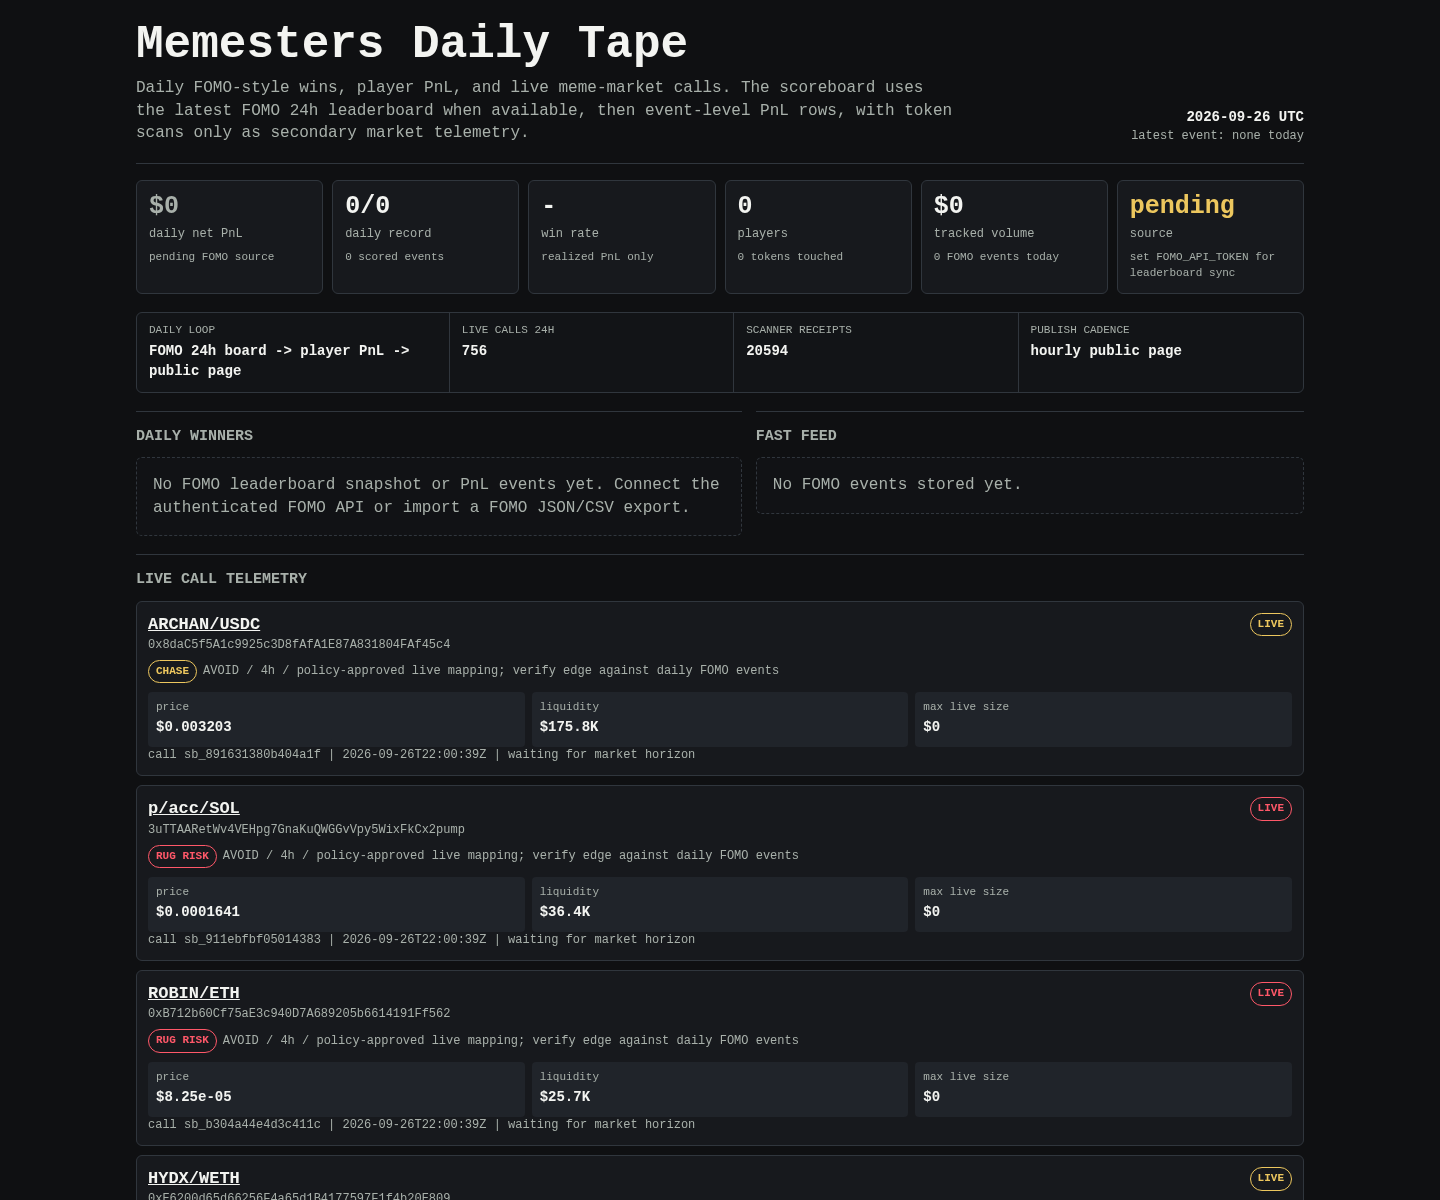
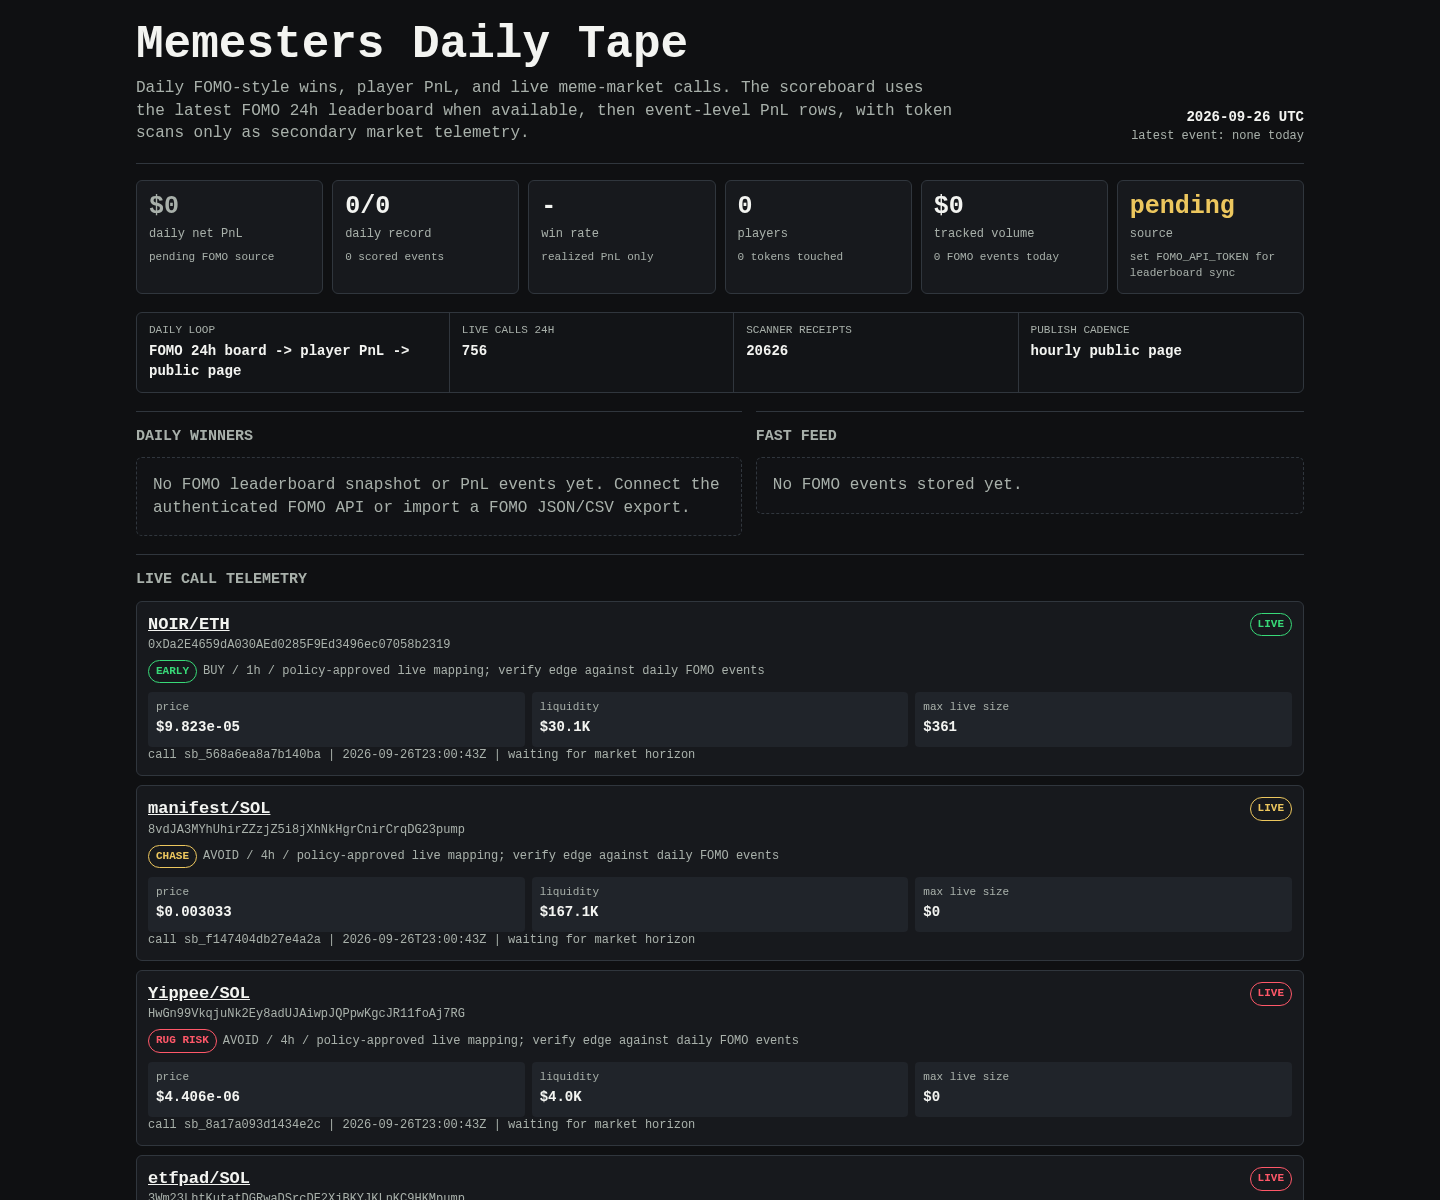
Update Memesters scoreboard

diff --git a/memesters/index.html b/memesters/index.html
@@ -150,7 +150,7 @@
     <div class="rail" aria-label="live operating loop">
       <div><span>daily loop</span><b>FOMO 24h board -> player PnL -> public page</b></div>
       <div><span>live calls 24h</span><b>756</b></div>
-      <div><span>scanner receipts</span><b>20594</b></div>
+      <div><span>scanner receipts</span><b>20626</b></div>
       <div><span>publish cadence</span><b>hourly public page</b></div>
     </div>
 
@@ -171,113 +171,8 @@
     <article class="receipt">
       <div class="receipt-head">
         <div>
-          <div class="pair"><a href="https://dexscreener.com/arc/0x9d88ae077f4730f37b7eb7811d5eeb77cfe682f69bcc3e589f43f0ecd9994fc5">ARCHAN/USDC</a></div>
-          <div class="addr">0x8daC5f5A1c9925c3D8fAfA1E87A831804FAf45c4</div>
-          <div class="addr policy-line">
-            <span class="badge chase">CHASE</span>
-            <span>AVOID / 4h / policy-approved live mapping; verify edge against daily FOMO events</span>
-          </div>
-        </div>
-        <span class="badge chase">LIVE</span>
-      </div>
-      <div class="receipt-grid">
-        <div class="kv"><span>price</span><b>$0.003203</b></div>
-        <div class="kv"><span>liquidity</span><b>$175.8K</b></div>
-        <div class="kv"><span>max live size</span><b>$0</b></div>
-      </div>
-      <div class="outcomes">call sb_891631380b404a1f | 2026-09-26T22:00:39Z | waiting for market horizon</div>
-    </article>
-    
-
-    <article class="receipt">
-      <div class="receipt-head">
-        <div>
-          <div class="pair"><a href="https://dexscreener.com/solana/dhzycqkffnlo8v7t5jbj4r4s4jyxwwovr2ubpi5iucsu">p/acc/SOL</a></div>
-          <div class="addr">3uTTAARetWv4VEHpg7GnaKuQWGGvVpy5WixFkCx2pump</div>
-          <div class="addr policy-line">
-            <span class="badge rug-risk">RUG RISK</span>
-            <span>AVOID / 4h / policy-approved live mapping; verify edge against daily FOMO events</span>
-          </div>
-        </div>
-        <span class="badge rug-risk">LIVE</span>
-      </div>
-      <div class="receipt-grid">
-        <div class="kv"><span>price</span><b>$0.0001641</b></div>
-        <div class="kv"><span>liquidity</span><b>$36.4K</b></div>
-        <div class="kv"><span>max live size</span><b>$0</b></div>
-      </div>
-      <div class="outcomes">call sb_911ebfbf05014383 | 2026-09-26T22:00:39Z | waiting for market horizon</div>
-    </article>
-    
-
-    <article class="receipt">
-      <div class="receipt-head">
-        <div>
-          <div class="pair"><a href="https://dexscreener.com/robinhood/0xe5139c0b90d349225b348631e98e887010173abebe05e4344c3cb7ddfd219759">ROBIN/ETH</a></div>
-          <div class="addr">0xB712b60Cf75aE3c940D7A689205b6614191Ff562</div>
-          <div class="addr policy-line">
-            <span class="badge rug-risk">RUG RISK</span>
-            <span>AVOID / 4h / policy-approved live mapping; verify edge against daily FOMO events</span>
-          </div>
-        </div>
-        <span class="badge rug-risk">LIVE</span>
-      </div>
-      <div class="receipt-grid">
-        <div class="kv"><span>price</span><b>$8.25e-05</b></div>
-        <div class="kv"><span>liquidity</span><b>$25.7K</b></div>
-        <div class="kv"><span>max live size</span><b>$0</b></div>
-      </div>
-      <div class="outcomes">call sb_b304a44e4d3c411c | 2026-09-26T22:00:39Z | waiting for market horizon</div>
-    </article>
-    
-
-    <article class="receipt">
-      <div class="receipt-head">
-        <div>
-          <div class="pair"><a href="https://dexscreener.com/robinhood/0x786467c30accad2600a21a9630bc438203094df0">HYDX/WETH</a></div>
-          <div class="addr">0xE6200d65d66256F4a65d1B4177597F1f4b20E809</div>
-          <div class="addr policy-line">
-            <span class="badge chase">CHASE</span>
-            <span>AVOID / 4h / policy-approved live mapping; verify edge against daily FOMO events</span>
-          </div>
-        </div>
-        <span class="badge chase">LIVE</span>
-      </div>
-      <div class="receipt-grid">
-        <div class="kv"><span>price</span><b>$0.002041</b></div>
-        <div class="kv"><span>liquidity</span><b>$126.6K</b></div>
-        <div class="kv"><span>max live size</span><b>$0</b></div>
-      </div>
-      <div class="outcomes">call sb_7401e37b8419408a | 2026-09-26T22:00:38Z | waiting for market horizon</div>
-    </article>
-    
-
-    <article class="receipt">
-      <div class="receipt-head">
-        <div>
-          <div class="pair"><a href="https://dexscreener.com/robinhood/0x82cdbae37653d091fc5015652809eeebb3ba136dbce97a41f7edbb5e280290ac">PAIDBOT/WETH</a></div>
-          <div class="addr">0xf2E33912058D267A4b5efD9A27a4E90521d6389A</div>
-          <div class="addr policy-line">
-            <span class="badge chase">CHASE</span>
-            <span>AVOID / 4h / policy-approved live mapping; verify edge against daily FOMO events</span>
-          </div>
-        </div>
-        <span class="badge chase">LIVE</span>
-      </div>
-      <div class="receipt-grid">
-        <div class="kv"><span>price</span><b>$0.0001505</b></div>
-        <div class="kv"><span>liquidity</span><b>$100.2K</b></div>
-        <div class="kv"><span>max live size</span><b>$0</b></div>
-      </div>
-      <div class="outcomes">call sb_1b61886d310c4d45 | 2026-09-26T22:00:38Z | waiting for market horizon</div>
-    </article>
-    
-
-    <article class="receipt">
-      <div class="receipt-head">
-        <div>
-          <div class="pair"><a href="https://dexscreener.com/solana/4x3wyycgk6gzvr8nmsfxezcgniaehae7ypitaloufray">DRU/SOL</a></div>
-          <div class="addr">14kH2osUyEJnqBZ7yFK4pLKJGuPZU4pr1enhi2ZLEmRw</div>
+          <div class="pair"><a href="https://dexscreener.com/robinhood/0x0e01015185736c984db19c7073adbfb290a9e2bd1420ea774cffe2d2bf27add9">NOIR/ETH</a></div>
+          <div class="addr">0xDa2E4659dA030AEd0285F9Ed3496ec07058b2319</div>
           <div class="addr policy-line">
             <span class="badge early">EARLY</span>
             <span>BUY / 1h / policy-approved live mapping; verify edge against daily FOMO events</span>
@@ -286,19 +181,40 @@
         <span class="badge early">LIVE</span>
       </div>
       <div class="receipt-grid">
-        <div class="kv"><span>price</span><b>$3.422e-05</b></div>
-        <div class="kv"><span>liquidity</span><b>$15.2K</b></div>
-        <div class="kv"><span>max live size</span><b>$183</b></div>
+        <div class="kv"><span>price</span><b>$9.823e-05</b></div>
+        <div class="kv"><span>liquidity</span><b>$30.1K</b></div>
+        <div class="kv"><span>max live size</span><b>$361</b></div>
       </div>
-      <div class="outcomes">call sb_e8871b8e56d14a7f | 2026-09-26T22:00:38Z | waiting for market horizon</div>
+      <div class="outcomes">call sb_568a6ea8a7b140ba | 2026-09-26T23:00:43Z | waiting for market horizon</div>
     </article>
     
 
     <article class="receipt">
       <div class="receipt-head">
         <div>
-          <div class="pair"><a href="https://dexscreener.com/solana/7zapjfmczu5nmqjtyhgyq7eutr19bpywm77hesza9cxy">mine/acc/SOL</a></div>
-          <div class="addr">J3YKxkHpsj5MoxmBzHAHmbVK5U668QsFEamD5kdSpump</div>
+          <div class="pair"><a href="https://dexscreener.com/solana/egfapuqszg4zv1efmnfprmcx6dbmypjvxq3wq3mqu79m">manifest/SOL</a></div>
+          <div class="addr">8vdJA3MYhUhirZZzjZ5i8jXhNkHgrCnirCrqDG23pump</div>
+          <div class="addr policy-line">
+            <span class="badge chase">CHASE</span>
+            <span>AVOID / 4h / policy-approved live mapping; verify edge against daily FOMO events</span>
+          </div>
+        </div>
+        <span class="badge chase">LIVE</span>
+      </div>
+      <div class="receipt-grid">
+        <div class="kv"><span>price</span><b>$0.003033</b></div>
+        <div class="kv"><span>liquidity</span><b>$167.1K</b></div>
+        <div class="kv"><span>max live size</span><b>$0</b></div>
+      </div>
+      <div class="outcomes">call sb_f147404db27e4a2a | 2026-09-26T23:00:43Z | waiting for market horizon</div>
+    </article>
+    
+
+    <article class="receipt">
+      <div class="receipt-head">
+        <div>
+          <div class="pair"><a href="https://dexscreener.com/solana/a1n6ka71vjujdt3xafh3v4uvxc9jlusckvvhgtwamzsv">Yippee/SOL</a></div>
+          <div class="addr">HwGn99VkqjuNk2Ey8adUJAiwpJQPpwKgcJR11foAj7RG</div>
           <div class="addr policy-line">
             <span class="badge rug-risk">RUG RISK</span>
             <span>AVOID / 4h / policy-approved live mapping; verify edge against daily FOMO events</span>
@@ -307,19 +223,19 @@
         <span class="badge rug-risk">LIVE</span>
       </div>
       <div class="receipt-grid">
-        <div class="kv"><span>price</span><b>$4.319e-06</b></div>
-        <div class="kv"><span>liquidity</span><b>$4.7K</b></div>
+        <div class="kv"><span>price</span><b>$4.406e-06</b></div>
+        <div class="kv"><span>liquidity</span><b>$4.0K</b></div>
         <div class="kv"><span>max live size</span><b>$0</b></div>
       </div>
-      <div class="outcomes">call sb_b578bcfe315d4353 | 2026-09-26T22:00:38Z | waiting for market horizon</div>
+      <div class="outcomes">call sb_8a17a093d1434e2c | 2026-09-26T23:00:43Z | waiting for market horizon</div>
     </article>
     
 
     <article class="receipt">
       <div class="receipt-head">
         <div>
-          <div class="pair"><a href="https://dexscreener.com/robinhood/0x77e8696f85f011dddaba04c560196af5dd86a777e8795950ffd5dcbf2cc9ad02">AZAR/USDG</a></div>
-          <div class="addr">0x55436eea2067B95E763D6aAA186b709822374Df8</div>
+          <div class="pair"><a href="https://dexscreener.com/solana/carbxylywxr7j7xgpvq37y87m6t7dxjfqzigulhdhuq4">etfpad/SOL</a></div>
+          <div class="addr">3Wm23LhtKutatDGRwaDSrcDE2XjBKYJKLnKC9HKMpump</div>
           <div class="addr policy-line">
             <span class="badge rug-risk">RUG RISK</span>
             <span>AVOID / 4h / policy-approved live mapping; verify edge against daily FOMO events</span>
@@ -328,19 +244,61 @@
         <span class="badge rug-risk">LIVE</span>
       </div>
       <div class="receipt-grid">
-        <div class="kv"><span>price</span><b>$1.412e-05</b></div>
-        <div class="kv"><span>liquidity</span><b>$9.7K</b></div>
+        <div class="kv"><span>price</span><b>$2.868e-06</b></div>
+        <div class="kv"><span>liquidity</span><b>$2.8K</b></div>
         <div class="kv"><span>max live size</span><b>$0</b></div>
       </div>
-      <div class="outcomes">call sb_d6d6dbb85cae44cb | 2026-09-26T22:00:38Z | waiting for market horizon</div>
+      <div class="outcomes">call sb_2c67df1dad7f4045 | 2026-09-26T23:00:43Z | waiting for market horizon</div>
     </article>
     
 
     <article class="receipt">
       <div class="receipt-head">
         <div>
-          <div class="pair"><a href="https://dexscreener.com/solana/4bke1wsi1o682bdbxgfyvneagldvf7szuydcgktjpikk">PLEASEINU/PAID</a></div>
-          <div class="addr">4YHbtGNfwdr1H11rJbVeizeEVVJzFYYiX7qFWJ1WPoaS</div>
+          <div class="pair"><a href="https://dexscreener.com/solana/6jkbmakrszmutjdtje3cgvwuddbxpy1cd54dfrpweotq">PAIDEBT/SOL</a></div>
+          <div class="addr">3B84bg2kvqzPLhczcXoALdxUBeUs6GU823rd5hP8pump</div>
+          <div class="addr policy-line">
+            <span class="badge chase">CHASE</span>
+            <span>AVOID / 4h / policy-approved live mapping; verify edge against daily FOMO events</span>
+          </div>
+        </div>
+        <span class="badge chase">LIVE</span>
+      </div>
+      <div class="receipt-grid">
+        <div class="kv"><span>price</span><b>$0.0002061</b></div>
+        <div class="kv"><span>liquidity</span><b>$41.1K</b></div>
+        <div class="kv"><span>max live size</span><b>$0</b></div>
+      </div>
+      <div class="outcomes">call sb_3289ede8d86f487e | 2026-09-26T23:00:43Z | waiting for market horizon</div>
+    </article>
+    
+
+    <article class="receipt">
+      <div class="receipt-head">
+        <div>
+          <div class="pair"><a href="https://dexscreener.com/solana/24bzye2jjrgrahaued2gru3skvea6az6beco3mrnnmai">HEISENBERG/SOL</a></div>
+          <div class="addr">8DwNVMzpcc3mq7Tk4gyWeTkvmFhnXcnDDCLayFFhXvex</div>
+          <div class="addr policy-line">
+            <span class="badge rug-risk">RUG RISK</span>
+            <span>AVOID / 4h / policy-approved live mapping; verify edge against daily FOMO events</span>
+          </div>
+        </div>
+        <span class="badge rug-risk">LIVE</span>
+      </div>
+      <div class="receipt-grid">
+        <div class="kv"><span>price</span><b>$0.0003897</b></div>
+        <div class="kv"><span>liquidity</span><b>$77.0K</b></div>
+        <div class="kv"><span>max live size</span><b>$0</b></div>
+      </div>
+      <div class="outcomes">call sb_890f7366eefb4a58 | 2026-09-26T23:00:43Z | waiting for market horizon</div>
+    </article>
+    
+
+    <article class="receipt">
+      <div class="receipt-head">
+        <div>
+          <div class="pair"><a href="https://dexscreener.com/solana/8jkzmbph8thlohaummf9pi3avuy88jbramo4t2gq7txx">C@T/SOL</a></div>
+          <div class="addr">aCfLwDESzbfuDAnDjWawTw1yf5KAFoyccjCZUnmpump</div>
           <div class="addr policy-line">
             <span class="badge early">EARLY</span>
             <span>BUY / 1h / policy-approved live mapping; verify edge against daily FOMO events</span>
@@ -349,32 +307,74 @@
         <span class="badge early">LIVE</span>
       </div>
       <div class="receipt-grid">
-        <div class="kv"><span>price</span><b>$8.842e-05</b></div>
-        <div class="kv"><span>liquidity</span><b>$30.3K</b></div>
-        <div class="kv"><span>max live size</span><b>$363</b></div>
+        <div class="kv"><span>price</span><b>$0.0001008</b></div>
+        <div class="kv"><span>liquidity</span><b>$27.8K</b></div>
+        <div class="kv"><span>max live size</span><b>$333</b></div>
       </div>
-      <div class="outcomes">call sb_c6aa9d911a284378 | 2026-09-26T21:45:36Z | waiting for market horizon</div>
+      <div class="outcomes">call sb_a9204a50fabf41a6 | 2026-09-26T23:00:42Z | waiting for market horizon</div>
     </article>
     
 
     <article class="receipt">
       <div class="receipt-head">
         <div>
-          <div class="pair"><a href="https://dexscreener.com/robinhood/0x62a31d15824bb9eb3ea089ef370577310b0c3c31c25e7d90c6a35485756f26fe">RAM/SNDK</a></div>
-          <div class="addr">0x6573737871551a9a94D599659939DC4C98801e18</div>
+          <div class="pair"><a href="https://dexscreener.com/robinhood/0x34704525d54c7cec2e4e64a4f83a0a3b13a31d317121fc0ebc099a838c150021">BONK/ETH</a></div>
+          <div class="addr">0xE59fD28F51590533b0068F3Ba7D7206fbC746947</div>
           <div class="addr policy-line">
-            <span class="badge early">EARLY</span>
-            <span>BUY / 1h / policy-approved live mapping; verify edge against daily FOMO events</span>
+            <span class="badge chase">CHASE</span>
+            <span>AVOID / 4h / policy-approved live mapping; verify edge against daily FOMO events</span>
           </div>
         </div>
-        <span class="badge early">LIVE</span>
+        <span class="badge chase">LIVE</span>
       </div>
       <div class="receipt-grid">
-        <div class="kv"><span>price</span><b>$3.67e-05</b></div>
-        <div class="kv"><span>liquidity</span><b>$34.3K</b></div>
-        <div class="kv"><span>max live size</span><b>$379</b></div>
+        <div class="kv"><span>price</span><b>$0.002042</b></div>
+        <div class="kv"><span>liquidity</span><b>$123.9K</b></div>
+        <div class="kv"><span>max live size</span><b>$0</b></div>
       </div>
-      <div class="outcomes">call sb_456ca171fc0543ba | 2026-09-26T21:45:36Z | waiting for market horizon</div>
+      <div class="outcomes">call sb_d9c18acd4d5e490a | 2026-09-26T23:00:42Z | waiting for market horizon</div>
+    </article>
+    
+
+    <article class="receipt">
+      <div class="receipt-head">
+        <div>
+          <div class="pair"><a href="https://dexscreener.com/solana/8ificyv6stffkmexjnzdsf9qmaz48pwpzu3tmu7wge7u">CopiumCat/SOL</a></div>
+          <div class="addr">7amYuaF1XF2mMvRrsnGrbanQgUT2wJxSgrBuTmt1pump</div>
+          <div class="addr policy-line">
+            <span class="badge rug-risk">RUG RISK</span>
+            <span>AVOID / 4h / policy-approved live mapping; verify edge against daily FOMO events</span>
+          </div>
+        </div>
+        <span class="badge rug-risk">LIVE</span>
+      </div>
+      <div class="receipt-grid">
+        <div class="kv"><span>price</span><b>$5.467e-05</b></div>
+        <div class="kv"><span>liquidity</span><b>$19.6K</b></div>
+        <div class="kv"><span>max live size</span><b>$0</b></div>
+      </div>
+      <div class="outcomes">call sb_9e1d054a49c94501 | 2026-09-26T22:45:34Z | waiting for market horizon</div>
+    </article>
+    
+
+    <article class="receipt">
+      <div class="receipt-head">
+        <div>
+          <div class="pair"><a href="https://dexscreener.com/solana/d2cumxjrpur9bpydxsyphnu16jdqjbqwhikbqegurpyu">PAIDBOT/SOL</a></div>
+          <div class="addr">4dBsoKgo7XypAQjKH8MYiddJ2VEhdK9kJpLYHJ6zpump</div>
+          <div class="addr policy-line">
+            <span class="badge chase">CHASE</span>
+            <span>AVOID / 4h / policy-approved live mapping; verify edge against daily FOMO events</span>
+          </div>
+        </div>
+        <span class="badge chase">LIVE</span>
+      </div>
+      <div class="receipt-grid">
+        <div class="kv"><span>price</span><b>$0.0002898</b></div>
+        <div class="kv"><span>liquidity</span><b>$50.0K</b></div>
+        <div class="kv"><span>max live size</span><b>$0</b></div>
+      </div>
+      <div class="outcomes">call sb_506135c1b3c64393 | 2026-09-26T22:45:34Z | waiting for market horizon</div>
     </article>
     
     </section>
